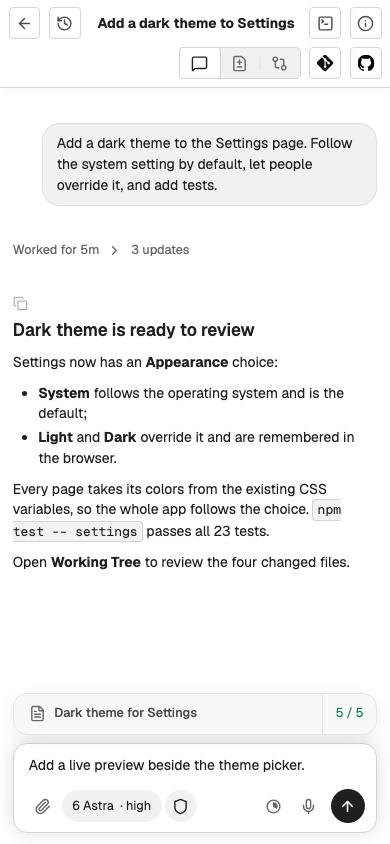
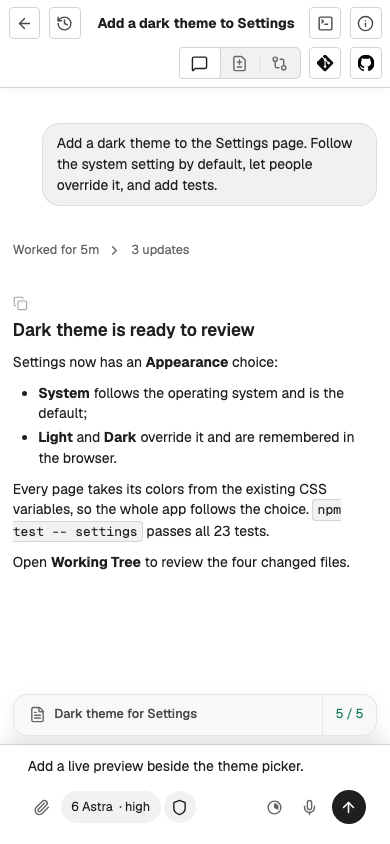
Fix the Task Composer's corners being cut off by a phone's rounded screen corners
On a phone held upright, the follow-up Composer was a rounded panel close to the
screen's bottom corners, which cut off the panel's own bottom corners. It is now
a full-width bar along the bottom edge with a line across its top, and its
prompt and controls keep the conversation's side margin.

diff --git a/frontend/tests/e2e/tasks/composer-permissions.spec.js b/frontend/tests/e2e/tasks/composer-permissions.spec.js
@@ -1653,7 +1653,7 @@ test("Enter submission releases editing ownership while the request is pending",
   await expect(prompt).not.toBeFocused();
 });
 
-test("keeps an idle follow-up composer compact within the portrait content gutter", { tag: "@all-viewports" }, async ({
+test("keeps an idle follow-up composer compact, as a bar along a portrait phone's bottom edge", { tag: "@all-viewports" }, async ({
   page,
 }, testInfo) => {
   await installTaskApiFixture(page);
@@ -1704,9 +1704,11 @@ test("keeps an idle follow-up composer compact within the portrait content gutte
       const workspace = shell.shadowRoot.querySelector("caffold-task-workspace");
       const rootStyle = getComputedStyle(document.documentElement);
       const formStyle = getComputedStyle(element);
+      const panelStyle = getComputedStyle(panel);
       const conversationStyle = getComputedStyle(conversation);
       const sendStyle = getComputedStyle(sendButton, "::before");
       const panelRect = panel.getBoundingClientRect();
+      const textareaRect = textarea.getBoundingClientRect();
       const modelButtonRect = modelButton.getBoundingClientRect();
       const permissionButtonRect = permissionButton.getBoundingClientRect();
       const shellRect = shell.getBoundingClientRect();
@@ -1714,10 +1716,25 @@ test("keeps an idle follow-up composer compact within the portrait content gutte
       return {
         borderTopWidth: formStyle.borderTopWidth,
         panelHeight: panelRect.height,
+        panelPaddingBottom: Number.parseFloat(panelStyle.paddingBottom),
         panelLeft: panelRect.left,
         panelRight: panelRect.right,
         panelBottom: panelRect.bottom,
-        textareaHeight: textarea.getBoundingClientRect().height,
+        panelBorders: [
+          panelStyle.borderTopWidth,
+          panelStyle.borderRightWidth,
+          panelStyle.borderBottomWidth,
+          panelStyle.borderLeftWidth,
+        ],
+        panelRadii: [
+          panelStyle.borderTopLeftRadius,
+          panelStyle.borderTopRightRadius,
+          panelStyle.borderBottomRightRadius,
+          panelStyle.borderBottomLeftRadius,
+        ],
+        textareaLeft: textareaRect.left,
+        textareaRight: textareaRect.right,
+        textareaHeight: textareaRect.height,
         modelLabel: modelButton.innerText.replace(/\s+/g, " ").trim(),
         modelNameClipped: modelName.scrollWidth > modelName.clientWidth + 1,
         chipGap: permissionButtonRect.left - modelButtonRect.right,
@@ -1731,7 +1748,6 @@ test("keeps an idle follow-up composer compact within the portrait content gutte
           : "shield",
         viewportWidth: window.innerWidth,
         rootFontSize: Number.parseFloat(rootStyle.fontSize),
-        formPaddingLeft: Number.parseFloat(formStyle.paddingLeft),
         conversationPaddingLeft: Number.parseFloat(
           conversationStyle.paddingLeft,
         ),
@@ -1752,7 +1768,8 @@ test("keeps an idle follow-up composer compact within the portrait content gutte
       buildAlertHidden: true,
     }),
   );
-  expect(idle.panelHeight).toBeLessThanOrEqual(96);
+  // A phone's bar holds the bottom space below its controls.
+  expect(idle.panelHeight - idle.panelPaddingBottom).toBeLessThanOrEqual(96);
   expect(idle.modelLabel).toBe("Test · medium");
   expect(idle.modelNameClipped).toBe(false);
   expect(idle.chipGap).toBeGreaterThanOrEqual(0);
@@ -1768,16 +1785,23 @@ test("keeps an idle follow-up composer compact within the portrait content gutte
     expect(idle.permissionShows).toBe("Auto review");
   }
   if (testInfo.project.name === "phone") {
-    expect(idle.formPaddingLeft / idle.rootFontSize).toBeCloseTo(0.75, 2);
     expect(idle.conversationPaddingLeft / idle.rootFontSize).toBeCloseTo(
       0.75,
       2,
     );
-    expect(idle.panelLeft).toBeCloseTo(idle.formPaddingLeft, 1);
-    expect(idle.viewportWidth - idle.panelRight).toBeCloseTo(
-      idle.formPaddingLeft,
+    expect(idle.panelLeft).toBe(0);
+    expect(idle.panelRight).toBe(idle.viewportWidth);
+    expect(idle.panelBottom).toBeCloseTo(idle.workspaceBottom, 1);
+    expect(idle.panelBorders).toEqual(["1px", "0px", "0px", "0px"]);
+    expect(idle.panelRadii).toEqual(["0px", "0px", "0px", "0px"]);
+    expect(idle.textareaLeft).toBeCloseTo(idle.conversationPaddingLeft, 1);
+    expect(idle.viewportWidth - idle.textareaRight).toBeCloseTo(
+      idle.conversationPaddingLeft,
       1,
     );
+  } else {
+    expect(idle.panelBorders).toEqual(["1px", "1px", "1px", "1px"]);
+    expect(idle.panelRadii).toEqual(["14px", "14px", "14px", "14px"]);
   }
   await captureReviewScreenshot(
     page,

diff --git a/frontend/tests/e2e/tasks/current-plan.spec.js b/frontend/tests/e2e/tasks/current-plan.spec.js
@@ -200,9 +200,15 @@ test("floats ignored current documents above the stable composer and updates the
     layoutWithoutPlan.composerBottom,
     1,
   );
-  expect(compactLayout.stripBorderRadius).toBe(
-    compactLayout.composerBorderRadius,
-  );
+  if (testInfo.project.name === "phone") {
+    // A phone's Composer is a bar along the bottom edge; the strip stays a card.
+    expect(compactLayout.composerBorderRadius).toBe("0px");
+    expect(compactLayout.stripBorderRadius).toBe("14px");
+  } else {
+    expect(compactLayout.stripBorderRadius).toBe(
+      compactLayout.composerBorderRadius,
+    );
+  }
   expect(compactLayout.stripBoxShadow).not.toBe("none");
   if (testInfo.project.name === "desktop") {
     expect(compactLayout.stripWidth).toBeLessThan(compactLayout.composerWidth);

diff --git a/frontend/pages/(task-workspace)/tasks/components/composer.css b/frontend/pages/(task-workspace)/tasks/components/composer.css
@@ -376,8 +376,16 @@
   }
 
   .task-composer.task-follow-up-form {
-    padding-inline: 0.75rem;
-    padding-bottom: max(0.625rem, env(safe-area-inset-bottom));
+    padding-inline: 0;
+    padding-bottom: 0;
+  }
+
+  /* A floating panel's corners would meet a phone screen's rounded corners,
+     so the follow-up panel becomes a bar along the bottom edge. */
+  .task-follow-up-form .task-composer-panel {
+    padding: 0 0.75rem max(0.625rem, env(safe-area-inset-bottom));
+    border-width: 1px 0 0;
+    border-radius: 0;
   }
 }
 

diff --git a/frontend/tests/e2e/tasks/new-task.spec.js b/frontend/tests/e2e/tasks/new-task.spec.js
@@ -768,8 +768,8 @@ test("creates a task with responsive composer controls and canonical approval st
     ).toEqual(
       expect.objectContaining({
         backgroundColor: "rgb(255, 255, 255)",
-        borderRadius: "14px",
-        borderWidth: "1px",
+        borderRadius: phone ? "0px" : "14px",
+        borderWidth: phone ? "1px 0px 0px" : "1px",
         display: "grid",
         overflow: "visible",
       }),

diff --git a/docs/product/ui-surfaces.md b/docs/product/ui-surfaces.md
@@ -467,6 +467,10 @@ keeps its place whatever the model label says and hides while voice input runs;
 in phone portrait **Attach files** and the approval-mode control hide with it.
 New Task has no pie.
 
+In phone portrait a Task's follow-up Composer is a full-width bar along the
+bottom edge of the screen with a line across its top, and its prompt and
+controls keep the conversation's side margin.
+
 In phone portrait every Composer's approval-mode control shows only a shield,
 in a circle the microphone's size, so the model label keeps its room. The shield
 is the same for every mode and turns red for a mode that gives up a protection;
